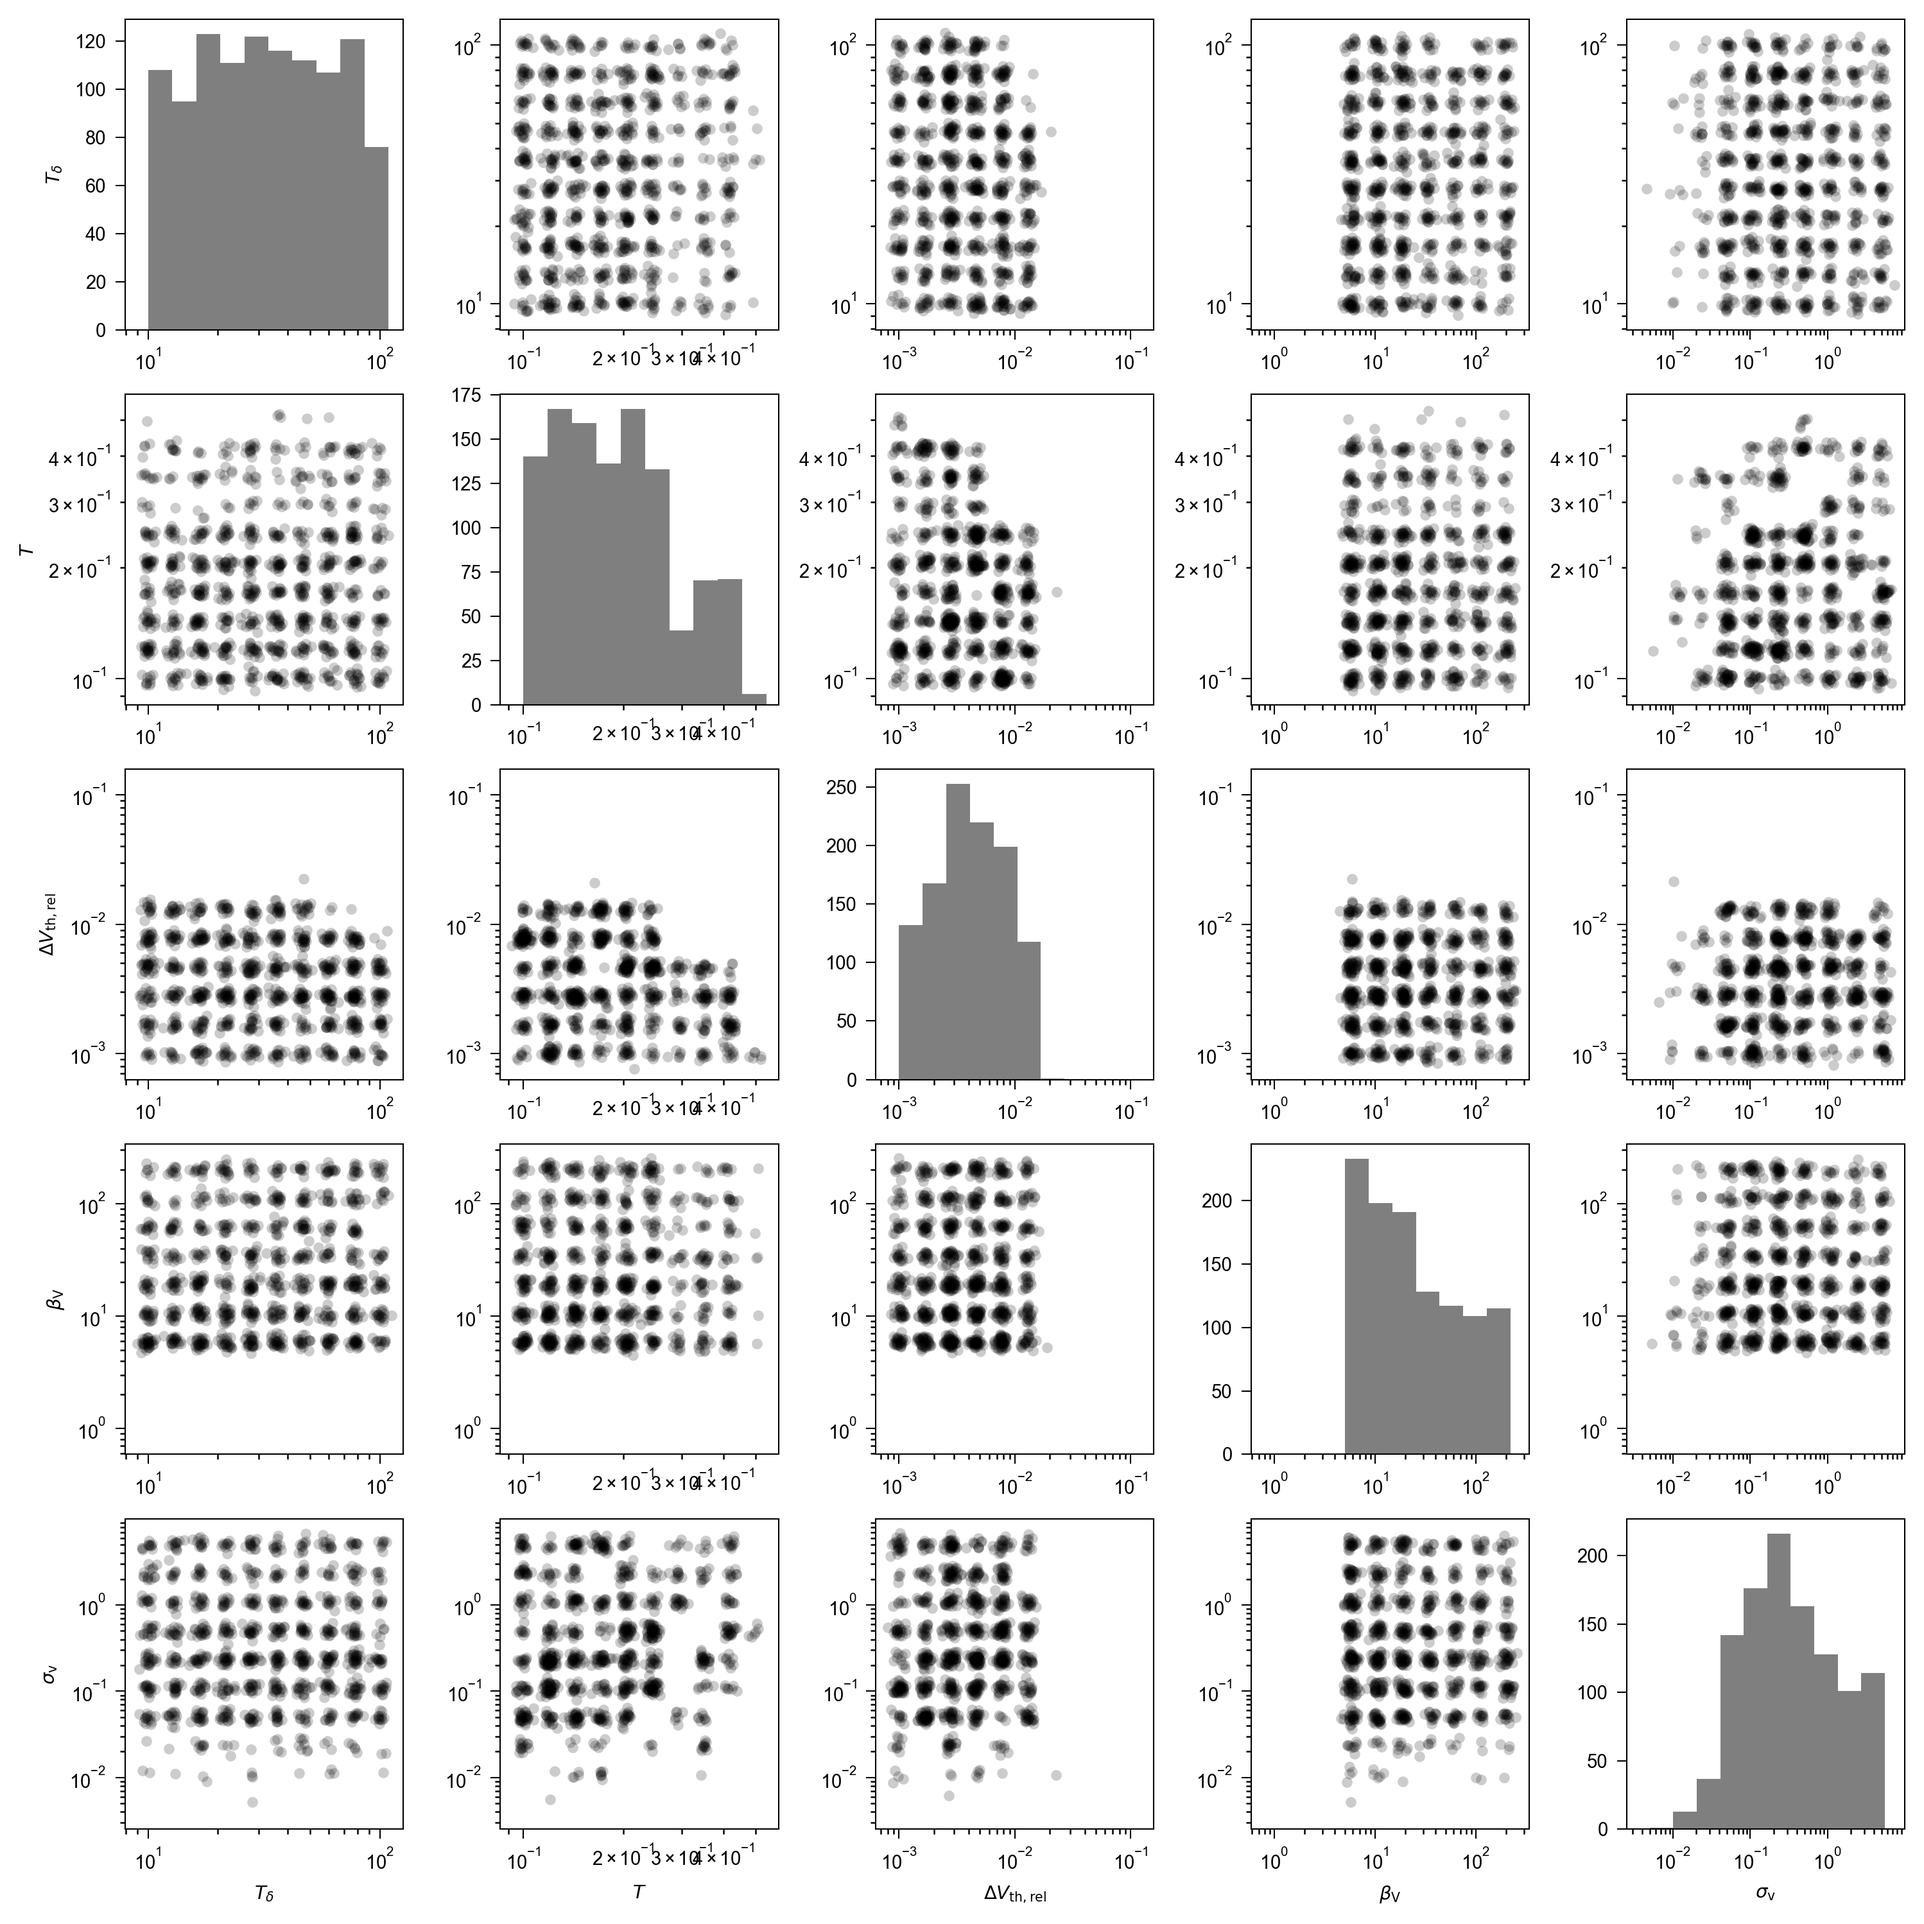
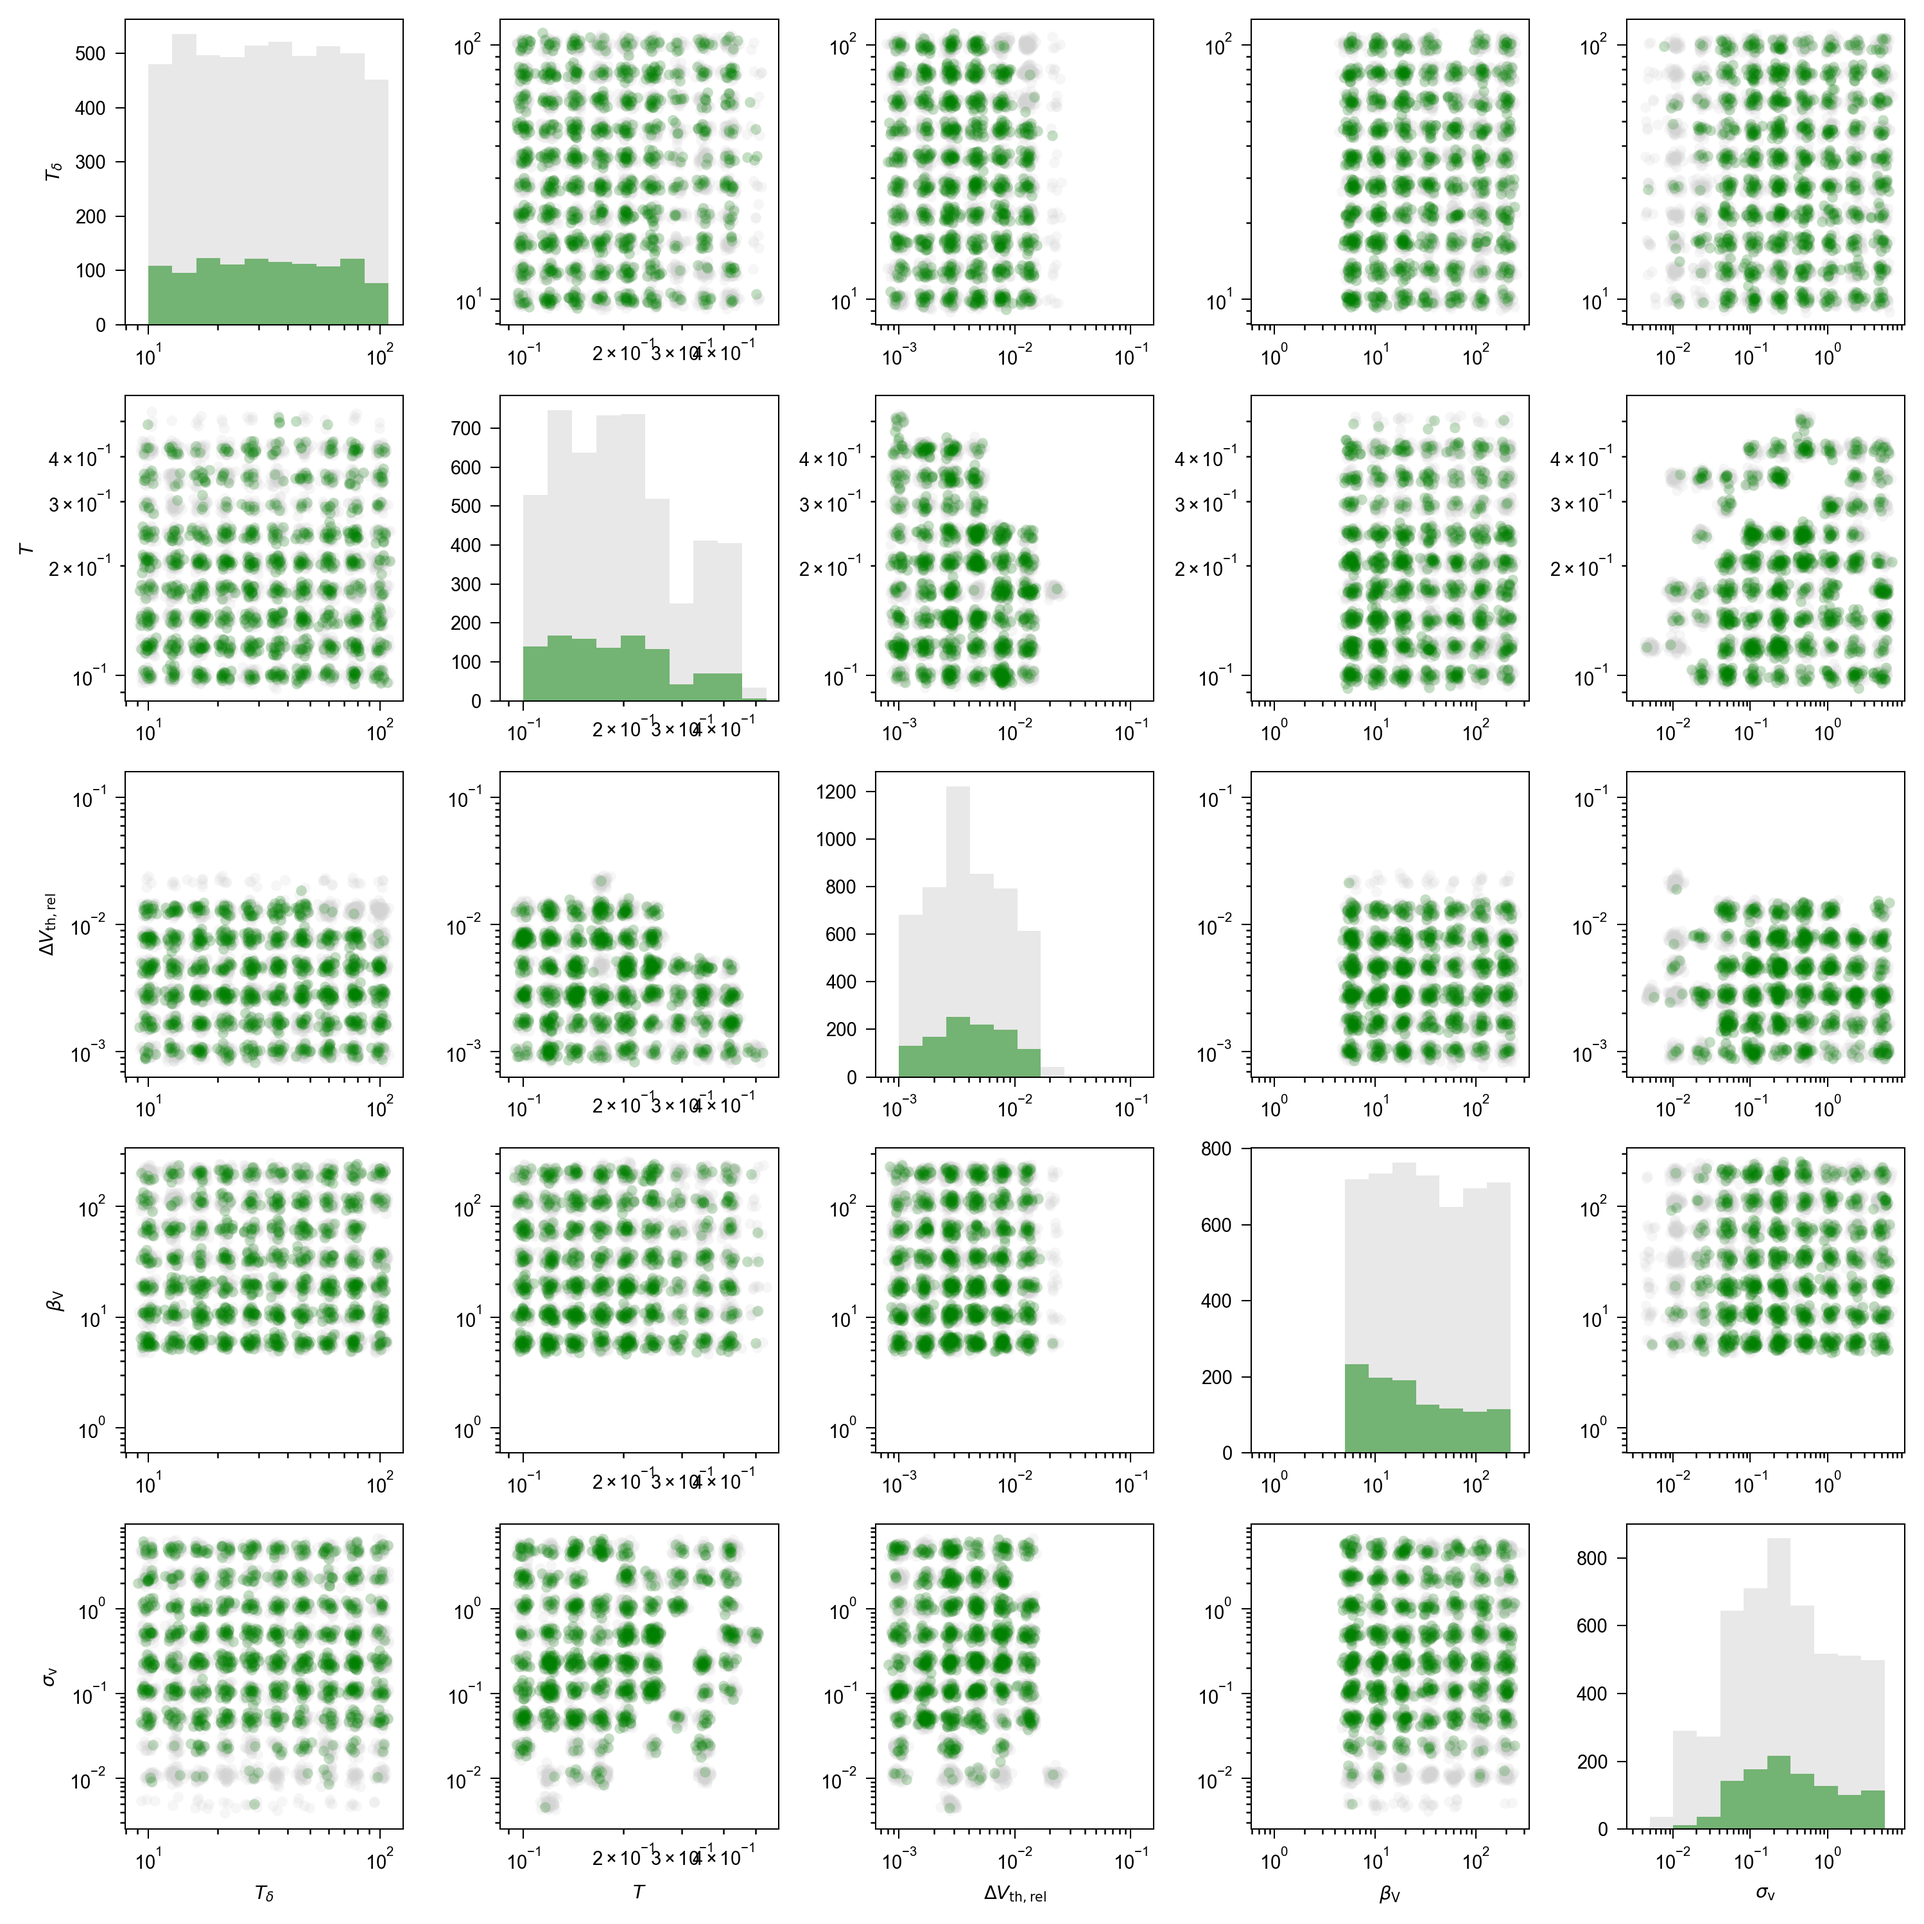
Showing also prior in Fig S17

diff --git a/SCPaper/do_figS17_19_20.py b/SCPaper/do_figS17_19_20.py
@@ -11,6 +11,8 @@ import sc_plot
 import do_1_deterministic_fitting
 import do_5_probabilistic_fitting 
 
+DO_RETAINED_COMB_PLOT = True
+DO_EXCL_INCTRL_EXP_PLOT = False
 
 SAVE_FIGS = True
 
@@ -39,38 +41,45 @@ for param_name in ret_model.param_names:
     param_ranges.append((np.amin(param_values), np.amax(param_values)))
 
 
-# plot parameterisations retained from combined tests
-plt.close('all')
-sc_fitting.do_params_plot(ret_model.param_names, 
-                          ret_model.params_array, 
-                          param_ranges, 
-                          log=True, jitter=PARAMS_JITTER)
-if SAVE_FIGS:
-    file_name = sc_plot.FIGS_FOLDER + 'figS17.png'
-    print(f'Saving {file_name}...')
-    plt.savefig(file_name, bbox_inches='tight', dpi=sc_plot.DPI)  
-
-
-# plot parameterisations tested in interactive simulation, and the ones
-# exhibiting non-progressing behaviour
-FIRST_FIG_NO = 19
-for i_excl, file_name in enumerate((sc_fitting.EXCL_HIKER_FNAME, 
-                                    sc_fitting.EXCL_DSS_FNAME)):
-    excl_params = sc_fitting.load_results(file_name)
-    params_array = excl_params[MODEL_NAME]['params_array']
-    n_non_progress = excl_params[MODEL_NAME]['n_non_progress']
-    param_subsets = (np.arange(params_array.shape[0]), 
-                     n_non_progress < 5,
-                     n_non_progress == 0)
+if DO_RETAINED_COMB_PLOT:
+    # plot parameterisations retained from combined tests
+    plt.close('all')
+    params_array = ret_model.tested_params_array
+    param_subsets = (np.arange(params_array.shape[0]),
+                     ret_model.idx_retained)
     sc_fitting.do_params_plot(ret_model.param_names, 
                               params_array, 
                               param_ranges, 
                               param_subsets=param_subsets,
-                              color = ('lightgray', 'deepskyblue', 'k'),
-                              log=True, jitter=PARAMS_JITTER,
-                              do_alpha=False)
+                              color=('lightgray', 'g'),
+                              log=True, jitter=PARAMS_JITTER)
     if SAVE_FIGS:
-        fig_no = FIRST_FIG_NO + i_excl
-        file_name = sc_plot.FIGS_FOLDER + f'figS{fig_no}.png'
+        file_name = sc_plot.FIGS_FOLDER + 'figS17.png'
         print(f'Saving {file_name}...')
         plt.savefig(file_name, bbox_inches='tight', dpi=sc_plot.DPI)  
+
+
+if DO_EXCL_INCTRL_EXP_PLOT:
+    # plot parameterisations sampled when testing on controlled exp data, and the ones
+    # exhibiting non-progressing behaviour
+    FIRST_FIG_NO = 19
+    for i_excl, file_name in enumerate((sc_fitting.EXCL_HIKER_FNAME, 
+                                        sc_fitting.EXCL_DSS_FNAME)):
+        excl_params = sc_fitting.load_results(file_name)
+        params_array = excl_params[MODEL_NAME]['params_array']
+        n_non_progress = excl_params[MODEL_NAME]['n_non_progress']
+        param_subsets = (np.arange(params_array.shape[0]), 
+                         n_non_progress < 5,
+                         n_non_progress == 0)
+        sc_fitting.do_params_plot(ret_model.param_names, 
+                                  params_array, 
+                                  param_ranges, 
+                                  param_subsets=param_subsets,
+                                  color = ('lightgray', 'deepskyblue', 'k'),
+                                  log=True, jitter=PARAMS_JITTER,
+                                  do_alpha=False)
+        if SAVE_FIGS:
+            fig_no = FIRST_FIG_NO + i_excl
+            file_name = sc_plot.FIGS_FOLDER + f'figS{fig_no}.png'
+            print(f'Saving {file_name}...')
+            plt.savefig(file_name, bbox_inches='tight', dpi=sc_plot.DPI)  
